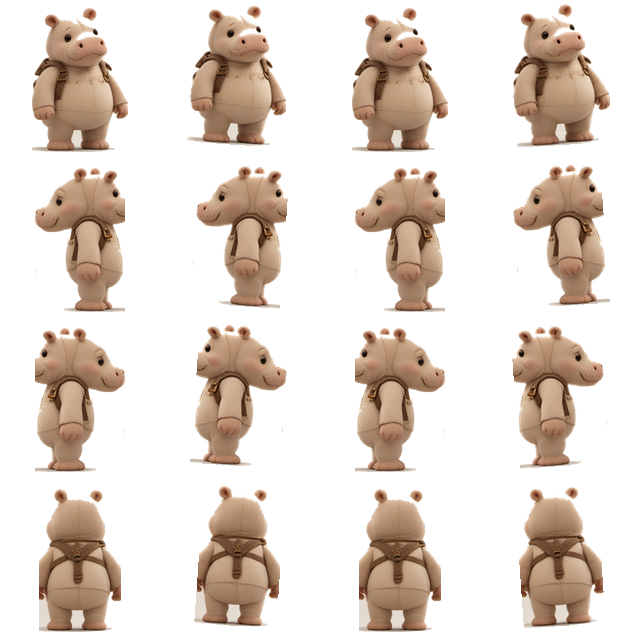
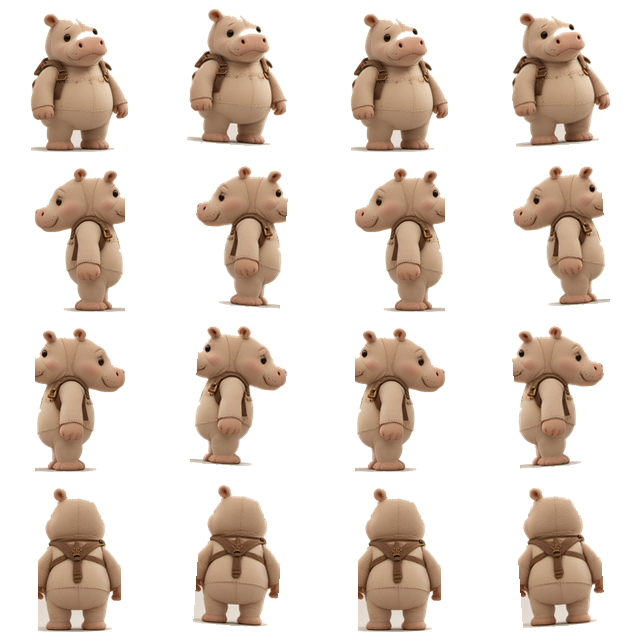
走路圖：檢查不合格的（Fen、嘎嘎、小狗、小棘）先拿掉，只留重重；切圖只留最大的一塊
Claude-Session: https://claude.ai/code/session_019xJktu5FgJTgLTgH47hrmp

diff --git a/tools/art/crop_views.py b/tools/art/crop_views.py
@@ -59,8 +59,18 @@ for k, (x1, x2) in enumerate(segs):
     ys = np.where(col.any(axis=1))[0]
     if len(ys) == 0 or ys[-1] - ys[0] < h * 0.4:
         continue
-    piece = im.convert("RGBA").crop((x1, ys[0], x2, ys[-1] + 1))
-    piece.putalpha(Image.fromarray(alpha_np[ys[0]:ys[-1] + 1, x1:x2]))
+    # 這一段裡只留最大的那一塊（丟掉隔壁角色的碎片、沒去乾淨的背景）
+    seg_lab, nseg = ndimage.label(col)
+    if nseg > 1:
+        sizes = ndimage.sum(col, seg_lab, range(1, nseg + 1))
+        col = seg_lab == (int(np.argmax(sizes)) + 1)
+    ys = np.where(col.any(axis=1))[0]
+    xs_ = np.where(col.any(axis=0))[0]
+    a_seg = alpha_np[:, x1:x2].copy()
+    a_seg[~ndimage.binary_dilation(col, iterations=2)] = 0
+    piece = im.convert("RGBA").crop((x1, 0, x2, h))
+    piece.putalpha(Image.fromarray(a_seg))
+    piece = piece.crop((xs_[0], ys[0], xs_[-1] + 1, ys[-1] + 1))
     outs.append(piece)
     print(f"{len(outs) - 1}: x={x1}-{x2} y={ys[0]}-{ys[-1]}")
 if a.pick:
